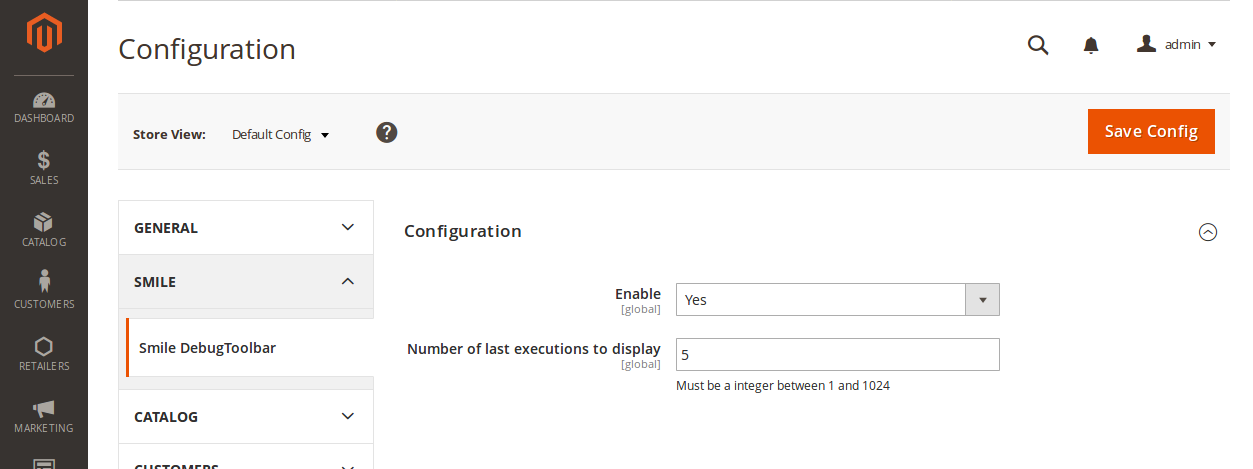
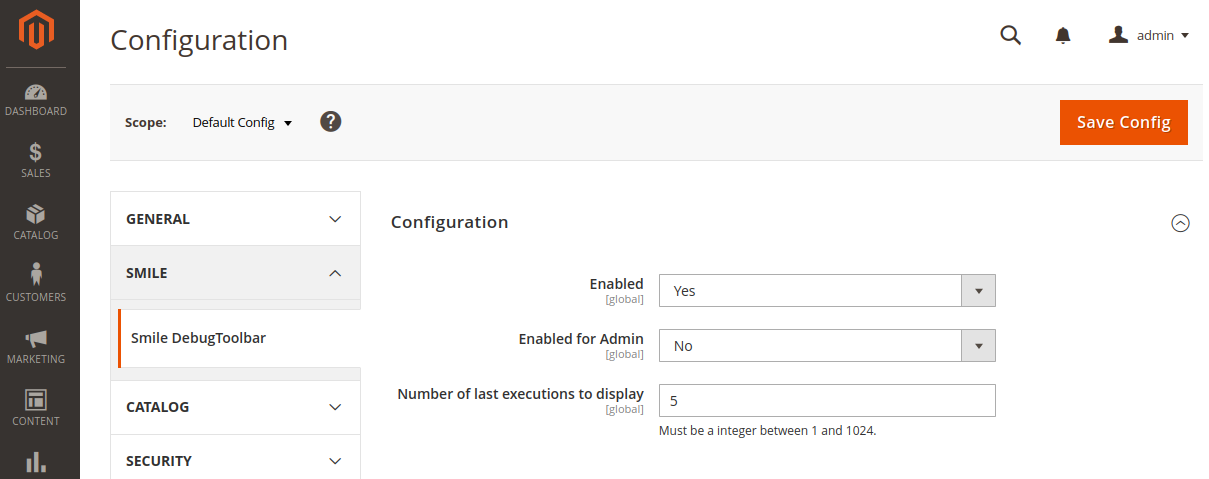
Add setting to toggle toolbar on admin area

diff --git a/Observer/AddToolbar.php b/Observer/AddToolbar.php
@@ -10,7 +10,9 @@ declare(strict_types=1);
 namespace Smile\DebugToolbar\Observer;
 
 use Exception;
+use Magento\Framework\App\Area;
 use Magento\Framework\App\Request\Http as MagentoRequest;
+use Magento\Framework\App\State as AppState;
 use Magento\Framework\Event\Observer;
 use Magento\Framework\Event\ObserverInterface;
 use Magento\Framework\Exception\FileSystemException;
@@ -57,24 +59,32 @@ class AddToolbar implements ObserverInterface
     protected $helperProfiler;
 
     /**
+     * @var AppState
+     */
+    protected $appState;
+
+    /**
      * @param ToolbarFactory $blockToolbarFactory
      * @param ToolbarsFactory $blockToolbarsFactory
      * @param HelperData $helperData
      * @param HelperConfig $helperConfig
      * @param HelperProfiler $helperProfiler
+     * @param AppState $appState
      */
     public function __construct(
         ToolbarFactory $blockToolbarFactory,
         ToolbarsFactory $blockToolbarsFactory,
         HelperData $helperData,
         HelperConfig $helperConfig,
-        HelperProfiler $helperProfiler
+        HelperProfiler $helperProfiler,
+        AppState $appState
     ) {
         $this->blockToolbarFactory = $blockToolbarFactory;
         $this->blockToolbarsFactory = $blockToolbarsFactory;
         $this->helperData = $helperData;
         $this->helperConfig = $helperConfig;
         $this->helperProfiler = $helperProfiler;
+        $this->appState = $appState;
     }
 
     /**
@@ -87,7 +97,7 @@ class AddToolbar implements ObserverInterface
             return;
         }
 
-        // We do not want that the toolbar has a impact on stats => stop the main timer
+        // We do not want the toolbar to have an impact on stats => stop the main timer
         $this->helperData->stopTimer('app_http');
 
         // We do not want that the toolbar has a impact on stats => compute the stat in first
@@ -136,13 +146,17 @@ class AddToolbar implements ObserverInterface
         // Keep only the last X executions
         $this->helperData->cleanOldToolbars($this->helperConfig->getNbExecutionToKeep());
 
-        // Add all the last toolbars to the content
-        $content = $response->getContent();
-        $endTag = '</body';
-        if (strpos($content, $endTag) !== false) {
-            $toolbarsContent = $this->getToolbarsBlock()->toHtml();
-            $content = str_replace($endTag, $toolbarsContent . $endTag, $content);
-            $response->setContent($content);
+        $area = $this->appState->getAreaCode();
+
+        // Add the last toolbars to the content
+        if ($area === Area::AREA_FRONTEND || $area === Area::AREA_ADMINHTML && $this->helperConfig->isEnabledAdmin()) {
+            $content = $response->getContent();
+            $endTag = '</body';
+            if (strpos($content, $endTag) !== false) {
+                $toolbarsContent = $this->getToolbarsBlock()->toHtml();
+                $content = str_replace($endTag, $toolbarsContent . $endTag, $content);
+                $response->setContent($content);
+            }
         }
     }
 

diff --git a/Plugin/App/Cache.php b/Plugin/App/Cache.php
@@ -12,6 +12,7 @@ namespace Smile\DebugToolbar\Plugin\App;
 use Closure;
 use Magento\Framework\App\CacheInterface;
 use Smile\DebugToolbar\Helper\Cache as HelperCache;
+use Smile\DebugToolbar\Helper\Config as HelperConfig;
 
 /**
  * Fetch cache info.
@@ -19,15 +20,22 @@ use Smile\DebugToolbar\Helper\Cache as HelperCache;
 class Cache
 {
     /**
+     * @var HelperConfig
+     */
+    protected $helperConfig;
+
+    /**
      * @var HelperCache
      */
     protected $helperCache;
 
     /**
+     * @param HelperConfig $helperConfig
      * @param HelperCache $helperCache
      */
-    public function __construct(HelperCache $helperCache)
+    public function __construct(HelperConfig $helperConfig, HelperCache $helperCache)
     {
+        $this->helperConfig = $helperConfig;
         $this->helperCache = $helperCache;
     }
 
@@ -42,10 +50,12 @@ class Cache
      */
     public function aroundLoad(CacheInterface $subject, Closure $closure, $identifier)
     {
+        if (!$this->helperConfig->isEnabled()) {
+            return $closure($identifier);
+        }
+
         $startTime = microtime(true);
-
         $result = $closure($identifier);
-
         $this->helperCache->addStat(
             'load',
             (string) $identifier,
@@ -76,10 +86,12 @@ class Cache
         $tags = [],
         $lifeTime = null
     ) {
+        if (!$this->helperConfig->isEnabled()) {
+            return $closure($data, $identifier, $tags, $lifeTime);
+        }
+
         $startTime = microtime(true);
-
         $result = $closure($data, $identifier, $tags, $lifeTime);
-
         $this->helperCache->addStat(
             'save',
             (string) $identifier,
@@ -101,10 +113,12 @@ class Cache
      */
     public function aroundRemove(CacheInterface $subject, Closure $closure, $identifier)
     {
+        if (!$this->helperConfig->isEnabled()) {
+            return $closure($identifier);
+        }
+
         $startTime = microtime(true);
-
         $result = $closure($identifier);
-
         $this->helperCache->addStat(
             'remove',
             (string) $identifier,

diff --git a/Helper/Config.php b/Helper/Config.php
@@ -20,19 +20,28 @@ class Config extends AbstractHelper
      * Config paths.
      */
     const KEY_CONFIG_ENABLE = 'smile_debugtoolbar/configuration/enabled';
+    const KEY_CONFIG_ENABLE_ADMIN = 'smile_debugtoolbar/configuration/enabled_admin';
     const KEY_CONFIG_NB_EXECUTION_TO_KEEP = 'smile_debugtoolbar/configuration/keep_last_execution';
     /**#@-*/
 
     /**
-     * Is enabled?
+     * Check whether the module is enabled.
      *
      * @return bool
      */
     public function isEnabled(): bool
     {
-        $value = (int) $this->scopeConfig->getValue(self::KEY_CONFIG_ENABLE);
+        return (bool) $this->scopeConfig->getValue(self::KEY_CONFIG_ENABLE);
+    }
 
-        return $value ? true : false;
+    /**
+     * Check whether the toolbar can be shown in the admin area.
+     *
+     * @return bool
+     */
+    public function isEnabledAdmin(): bool
+    {
+        return (bool) $this->scopeConfig->getValue(self::KEY_CONFIG_ENABLE_ADMIN);
     }
 
     /**

diff --git a/Plugin/Event/Invoker.php b/Plugin/Event/Invoker.php
@@ -48,6 +48,7 @@ class Invoker
         array $configuration,
         MagentoObserver $observer
     ) {
+        // Note: we can't check if the module is enabled, it could create an infinite loop when fetching cache data
         if (array_key_exists('disabled', $configuration) && $configuration['disabled'] === true) {
             return $closure($configuration, $observer);
         }

diff --git a/Plugin/Event/Manager.php b/Plugin/Event/Manager.php
@@ -45,6 +45,7 @@ class Manager
         $eventName,
         array $data = []
     ) {
+        // Note: we can't check if the module is enabled, it could create an infinite loop when fetching cache data
         $this->helperObserver->initEventStat((string) $eventName);
 
         $startTime = microtime(true);

diff --git a/Plugin/App/Action/AbstractAction.php b/Plugin/App/Action/AbstractAction.php
@@ -52,7 +52,6 @@ class AbstractAction
         if ($this->helperConfig->isEnabled()) {
             $className = get_class($subject);
             $className = preg_replace('!\\\\Interceptor$!', '', $className);
-
             $this->helperData->setValue('controller_classname', $className);
         }
 

diff --git a/Helper/Data.php b/Helper/Data.php
@@ -63,7 +63,6 @@ class Data extends AbstractHelper
     public function __construct(Context $context, DirectoryList $directoryList, AppState $appState)
     {
         parent::__construct($context);
-
         $this->directoryList = $directoryList;
         $this->appState = $appState;
     }

diff --git a/doc/backoffice.md b/doc/backoffice.md
@@ -22,7 +22,8 @@ A new configuration section **Smile > Smile DebugToolbar** was added.
 
 You can:
 
-- Enable / Disable the Debug Toolbar
-- Choose the number of last executions to save and display in the toolbar
+- Enable / disable the debug toolbar (default: disabled)
+- Show / hide the debug toolbar in the admin area (default: hidden)
+- Choose the number of last executions to save and display in the toolbar (default: 5)
 
 [Back](../README.md)

diff --git a/CHANGELOG.md b/CHANGELOG.md
@@ -2,6 +2,10 @@
 
 All notable changes to this project will be documented in this file.
 
+## WIP
+
+- Add setting to toggle toolbar on admin area
+
 ## [5.0.2] - 2021-01-04
 [5.0.2]: https://github.com/Smile-SA/magento2-module-debug-toolbar/compare/5.0.1...5.0.2
 
